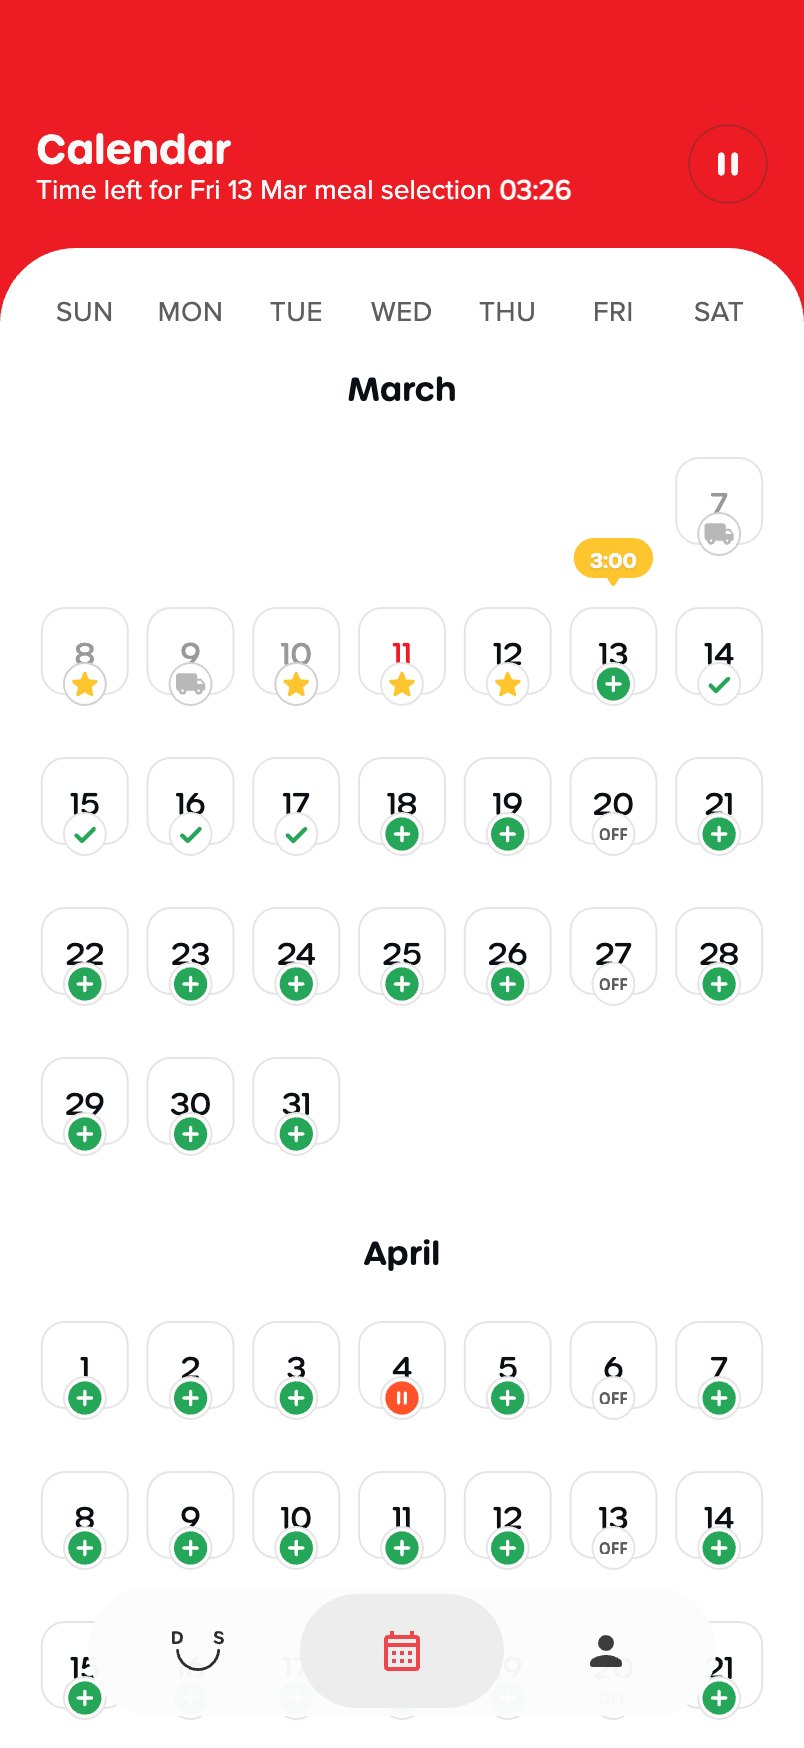
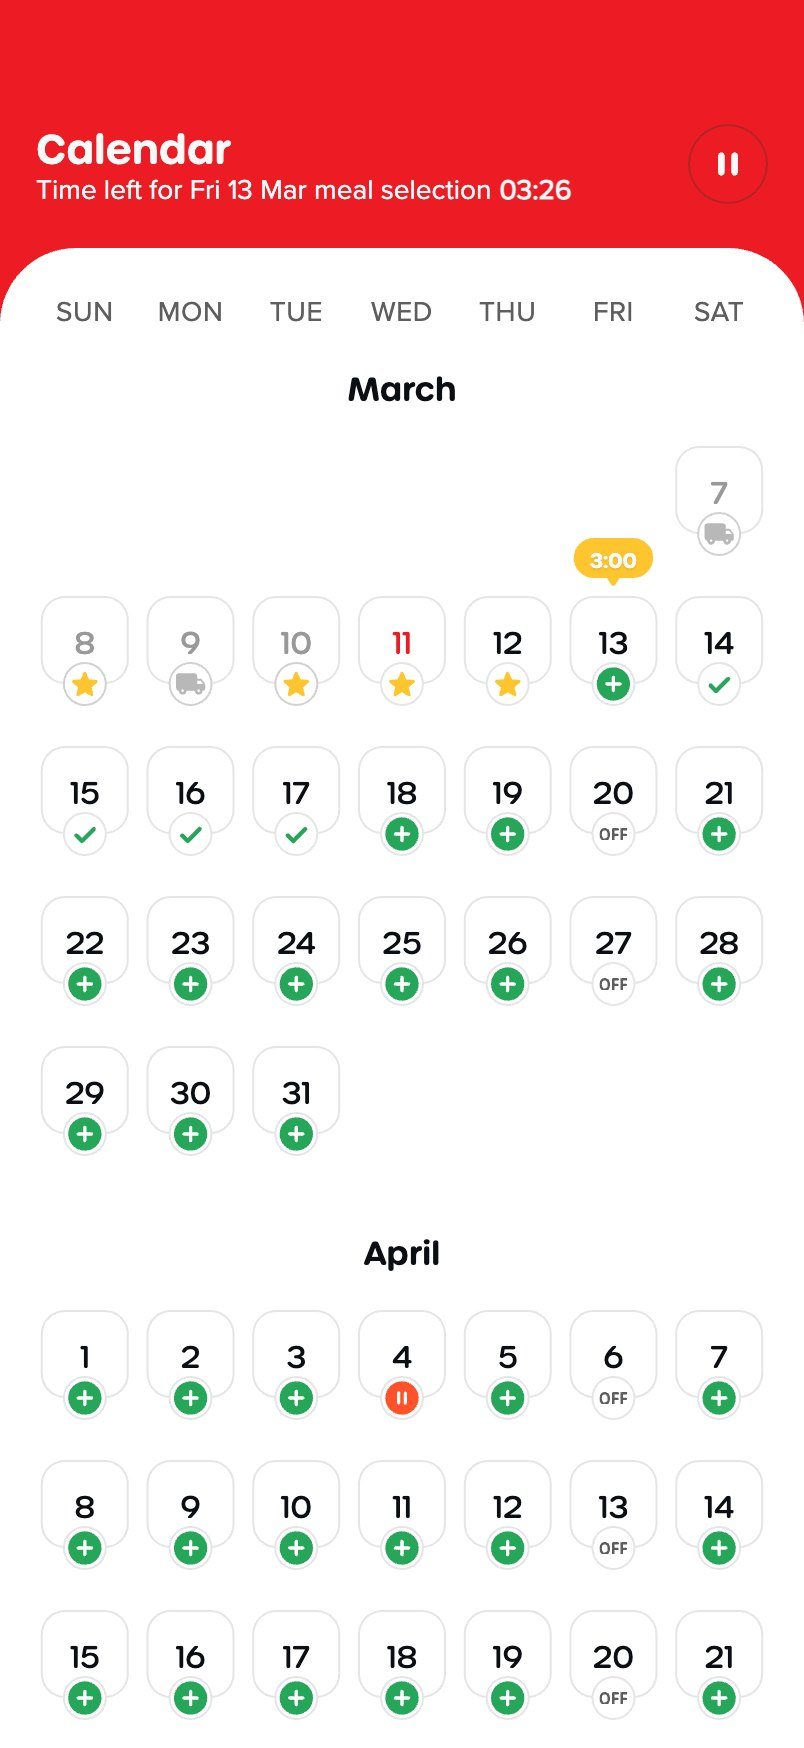
meal-select calendar: drop tab bar, fix chip seating, Next vs Done
Tab bar removed per Rashid (embed mode gets the Figma header X back
as the exit instead). Status chips were riding 5.5px high — the day
button vertically centered its tile; the cell is now a top-anchored
flex column so the chip's center sits exactly on the tile's bottom
edge like the Figma. Overlay interactions split: bottom Next confirms
the day and slides horizontally to the next one (original page turn),
the top check dismisses and every day confirmed during the visit pops
into its green check on the calendar, staggered. Fresh preview.png.

diff --git a/meal-select/index.html b/meal-select/index.html
@@ -116,6 +116,14 @@
     transition: transform .18s cubic-bezier(.2,.8,.3,1.4); }
   .pausebtn:active { transform: scale(.88); }
   .pausebtn img { width: 20px; height: 20px; display: block; }
+  /* header close — the Figma X (opacity-0 on this screen); shown only when the
+     hub embeds the flow, so there is still a way back once the tab bar is gone */
+  .hd-close { display: none; width: 36px; height: 36px; border: none; background: none;
+    cursor: pointer; flex: none; align-items: center; justify-content: center; padding: 0;
+    transition: transform .18s cubic-bezier(.2,.8,.3,1.4); }
+  html.embed .hd-close { display: flex; }
+  .hd-close:active { transform: scale(.88); }
+  .hd-close img { width: 36px; height: 36px; display: block; }
 
   /* ---- the white sheet ---- */
   .sheetc { flex: 1; min-height: 0; background: #fff; border-radius: 38px 38px 0 0;
@@ -133,7 +141,8 @@
     grid-auto-rows: 55px; row-gap: 20px; }
 
   .day { position: relative; width: 44px; height: 55px; border: none; background: none;
-    padding: 0; font: inherit; }
+    padding: 0; font: inherit; display: flex; flex-direction: column; align-items: center;
+    justify-content: flex-start; }
   .day .tile { width: 44px; height: 44px; border-radius: 12px; background: #fff;
     border: 1px solid #e5e5e5; display: flex; align-items: center; justify-content: center;
     font: 500 15px/1 'Urbane Rounded', sans-serif; color: #0b0e12;
@@ -180,33 +189,14 @@
   .endnote img { width: 24px; height: 24px; display: block; }
   .endnote p { font: 400 14px/20px 'Proxima Nova', sans-serif; color: #0d0d0d; }
   .endnote p b { color: #ed1c24; font-weight: 400; }
-  .endpad { height: calc(140px + env(safe-area-inset-bottom, 0px)); }
+  .endpad { height: calc(46px + env(safe-area-inset-bottom, 0px)); }
 
-  /* ---- bottom scroll-edge blur + floating glass tab bar ---- */
+  /* ---- bottom scroll-edge blur ---- */
   .scrollfade { position: absolute; left: 0; right: 0; bottom: 0; height: 150px;
     pointer-events: none; z-index: 20;
     backdrop-filter: blur(7px); -webkit-backdrop-filter: blur(7px);
     mask-image: linear-gradient(to bottom, transparent, black 72%);
     -webkit-mask-image: linear-gradient(to bottom, transparent, black 72%); }
-  .tabbar { position: absolute; left: calc(50% - 157px); width: 314px; height: 65px;
-    bottom: calc(16px + env(safe-area-inset-bottom, 0px)); z-index: 30; }
-  .tb-bg { position: absolute; inset: 0; border-radius: 999px; overflow: hidden;
-    backdrop-filter: blur(14px) saturate(170%); -webkit-backdrop-filter: blur(14px) saturate(170%);
-    box-shadow: 0 8px 40px rgba(0,0,0,.12), inset 0 0 0 1px rgba(255,255,255,.5); }
-  .tb-bg i { position: absolute; inset: 0; display: block; }
-  .tb-bg .f1 { background: rgba(255,255,255,.65); }
-  .tb-bg .f2 { background: #ddd; mix-blend-mode: color-burn; }
-  .tb-bg .f3 { background: #f7f7f7; mix-blend-mode: darken; }
-  .tb-tabs { position: absolute; inset: 4px; display: flex; }
-  .tb-pill { position: absolute; top: 0; bottom: 0; width: 102px; border-radius: 999px;
-    background: #ededed; left: 102px;
-    transition: left .38s cubic-bezier(.3,.9,.3,1.05); }
-  .tb-tab { position: relative; flex: 1; border: none; background: none; cursor: pointer;
-    display: flex; align-items: center; justify-content: center;
-    transition: transform .18s cubic-bezier(.2,.8,.3,1.4); }
-  .tb-tab:active { transform: scale(.9); }
-  .tb-tab img { width: 24px; height: 24px; display: block; position: relative; }
-  .tb-tab .logo { width: 26px; height: 20px; }
 
   /* ---- meal-selection overlay (select.html embedded) ---- */
   .ov-veil { position: absolute; inset: 0; background: rgba(0,0,0,.42); opacity: 0;
@@ -323,6 +313,9 @@
             <h1>Calendar</h1>
             <div class="hd-sub">Time left for Fri 13 Mar meal selection<b id="hdCount">03:26</b></div>
           </div>
+          <button class="hd-close" id="hdClose" aria-label="Close">
+            <img src="cal-close.svg" alt="">
+          </button>
           <button class="pausebtn" id="pauseBtn" aria-label="Pause subscription">
             <img src="cal-pause.svg" alt="">
           </button>
@@ -335,21 +328,6 @@
           <div class="months" id="months"></div>
         </div>
         <div class="scrollfade"></div>
-        <div class="tabbar">
-          <div class="tb-bg"><i class="f1"></i><i class="f2"></i><i class="f3"></i></div>
-          <div class="tb-tabs">
-            <div class="tb-pill"></div>
-            <button class="tb-tab" id="tabHome" aria-label="Home">
-              <img class="logo" src="cal-tablogo.svg" alt="">
-            </button>
-            <button class="tb-tab" aria-label="Calendar">
-              <img src="cal-tabcal.svg" alt="">
-            </button>
-            <button class="tb-tab" id="tabPerson" aria-label="Profile">
-              <img src="cal-tabperson.svg" alt="">
-            </button>
-          </div>
-        </div>
         <div class="ov-veil" id="ovVeil"></div>
       </div>
       <div class="island"></div>
@@ -363,7 +341,7 @@
 
 <script>
 window.dsOwnLabMenu = true;   /* richer built-in menu; skip lab-shell's generic one */
-const BUILD = 'calendar 2026-09-08 · 1';
+const BUILD = 'calendar 2026-09-08 · 2';
 function vibrate(p) { try { if (MODS.haptics) navigator.vibrate && navigator.vibrate(p); } catch (_) {} }
 
 /* ================= modifiers ================= */
@@ -487,7 +465,8 @@ addEventListener('message', e => {
   if (d.t === 'ds-close') closeOverlay();
   if (d.t === 'ds-done') {
     closeOverlay();
-    markSelected(d.mon, d.day);
+    const days = d.days || [d.day];
+    days.forEach((n, i) => setTimeout(() => markSelected(d.mon, n), i * 140));
   }
 });
 function markSelected(mon, day) {
@@ -508,12 +487,11 @@ function markSelected(mon, day) {
 
 /* ================= decorative chrome ================= */
 document.getElementById('pauseBtn').onclick = () => vibrate(8);
-document.getElementById('tabHome').onclick = () => {
+document.getElementById('hdClose').onclick = () => {
   vibrate(8);
   if (EMBED) parent.postMessage({ t: 'ds-close' }, '*');
   else location.href = '../';
 };
-document.getElementById('tabPerson').onclick = () => vibrate(6);
 
 /* ================= sidebar wiring ================= */
 function bindMod(id, out, key, fmt, after) {

diff --git a/meal-select/select.html b/meal-select/select.html
@@ -1438,6 +1438,7 @@ const QS = new URLSearchParams(location.search);
 const CAL = QS.get('cal') === '1';   /* opened as the calendar page's overlay */
 const DAY_START = +QS.get('day') || 15;
 const MON_LBL = QS.get('mon') || 'Mar';
+const calDone = new Set();           /* days confirmed during this overlay visit */
 let dayIdx = 0;
 
 /* every day opens with deterministic fallback picks the user can just keep */
@@ -1534,16 +1535,7 @@ function nextTapped() {
   vibrate(10);
   dock.classList.remove('wide');
   dock.innerHTML = '<span class="loader"></span>';
-  if (CAL && EMBED) {
-    /* calendar overlay: confirm = this day is done — hand back to the calendar */
-    setTimeout(() => {
-      sheetEl.classList.add('springing');
-      sheetEl.style.transform = 'translateY(103%)';
-      setTimeout(() => parent.postMessage(
-        { t: 'ds-done', day: DAY_START + dayIdx, mon: MON_LBL }, '*'), 400);
-    }, 900);
-    return;
-  }
+  if (CAL) calDone.add(DAY_START + dayIdx);   /* Next = this day confirmed, keep picking */
   setTimeout(() => turnDay(1), 2000);
 }
 
@@ -1584,7 +1576,21 @@ document.getElementById('closeBtn').onclick = () => {
     location.href = '../';
   }
 };
-confirmBtn.onclick = () => { if (completed) nextTapped(); };
+confirmBtn.onclick = () => {
+  if (!completed) return;
+  if (CAL && EMBED) {
+    /* top check = done: dismiss and let the calendar pop every confirmed day */
+    if (turning) return;
+    calDone.add(DAY_START + dayIdx);
+    vibrate(10);
+    sheetEl.classList.add('springing');
+    sheetEl.style.transform = 'translateY(103%)';
+    setTimeout(() => parent.postMessage(
+      { t: 'ds-done', days: [...calDone], mon: MON_LBL }, '*'), 400);
+    return;
+  }
+  nextTapped();
+};
 const clearModal = document.getElementById('clearModal');
 document.getElementById('clearBtn').onclick = () => clearModal.classList.add('show');
 document.getElementById('clearCancel').onclick = () => clearModal.classList.remove('show');
